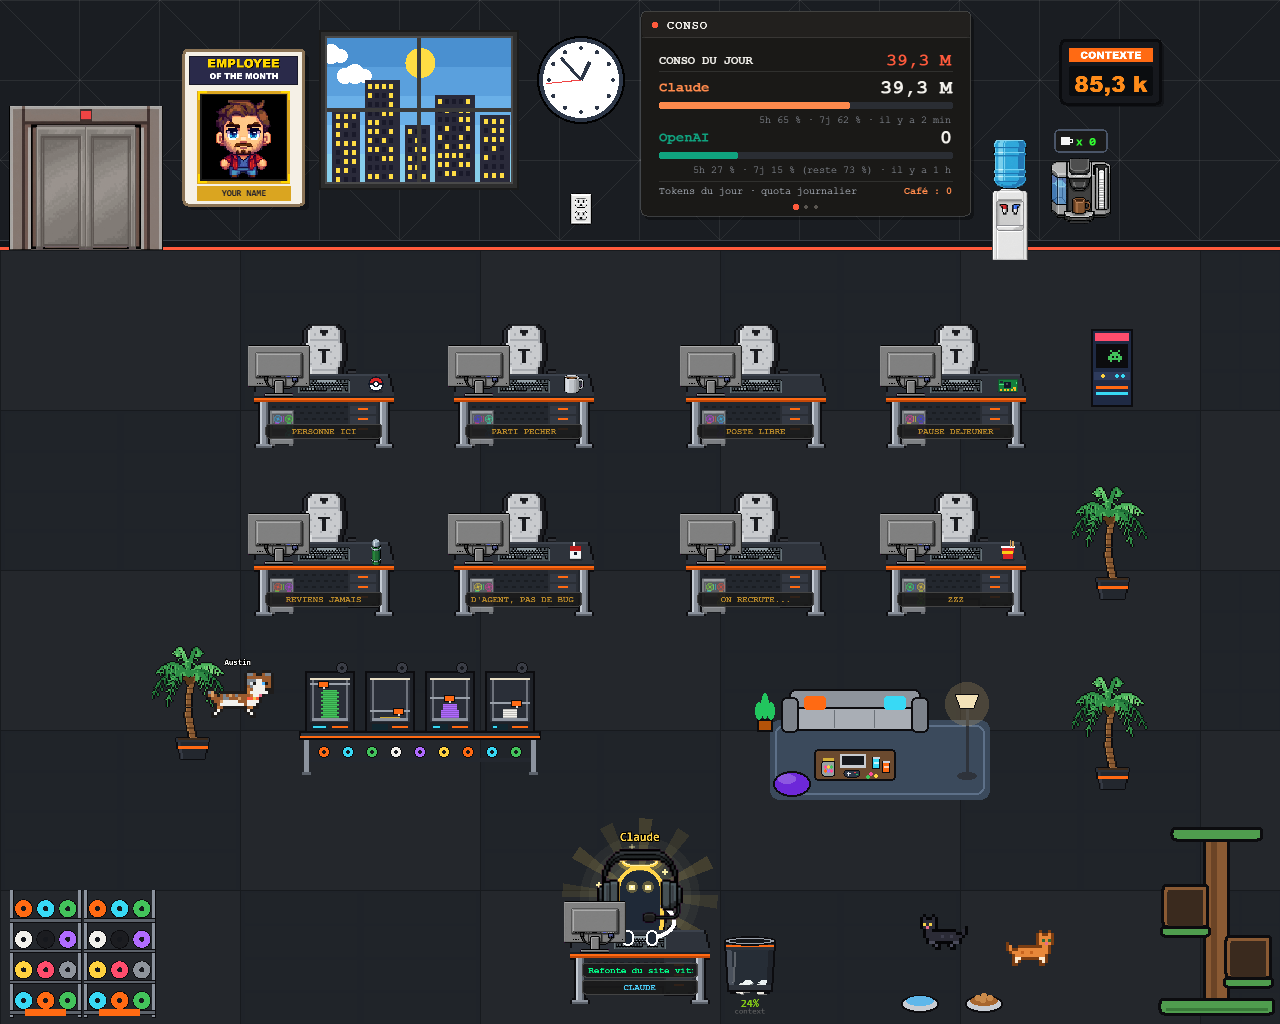
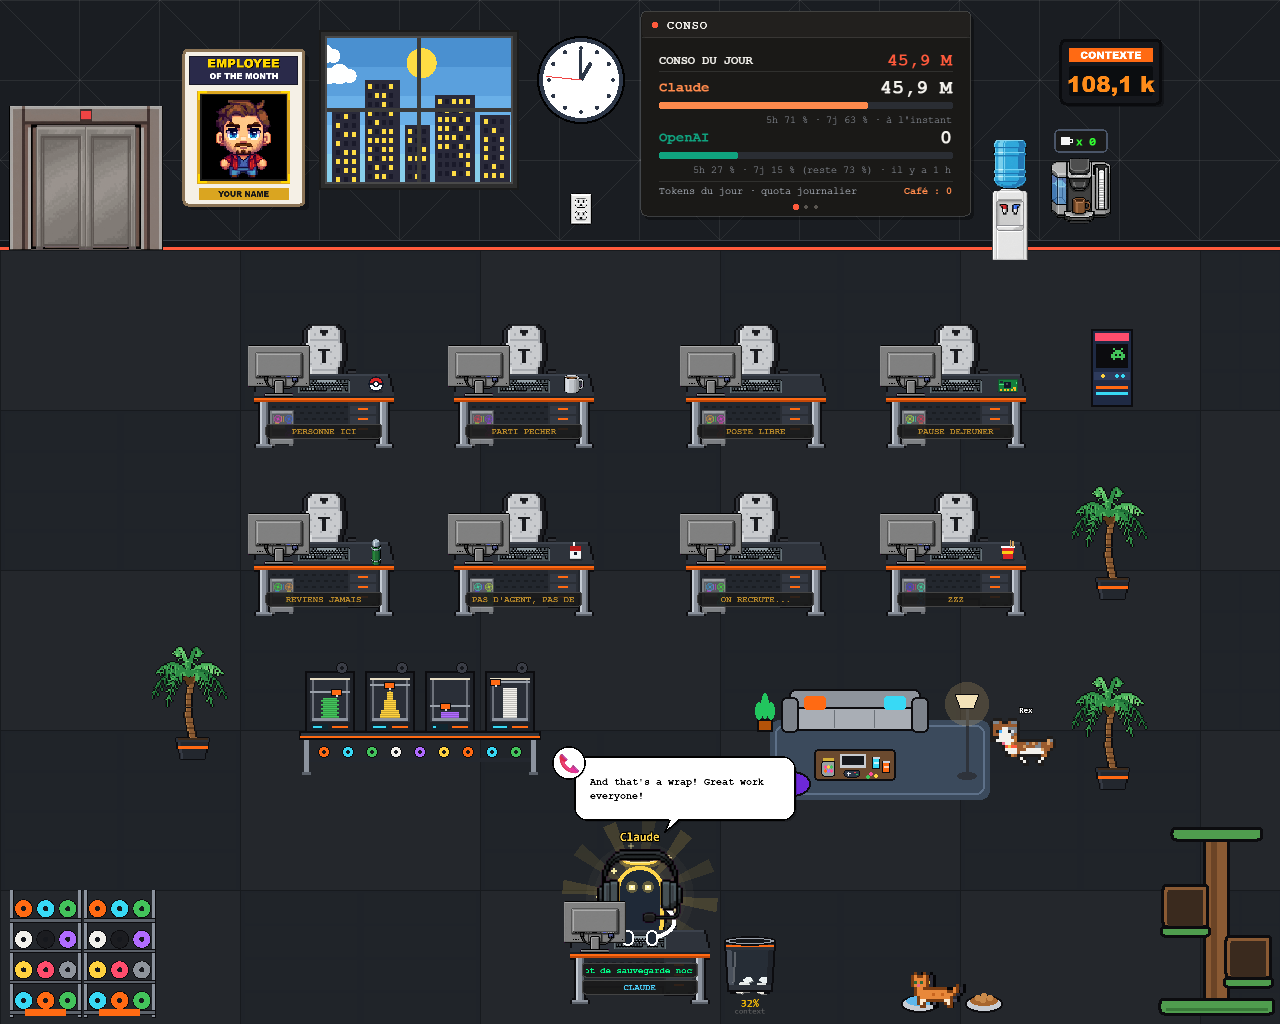
Anonymise les prenoms (agents, chien, chats), nouvelles captures, documentation complete
README enrichi, docs/ (architecture, personnaliser, depannage), CLAUDE.md et AGENTS.md.

diff --git a/app/frontend/tests/agentLooks.test.ts b/app/frontend/tests/agentLooks.test.ts
@@ -3,19 +3,19 @@ import { AGENT_LOOKS, PIXEL_LOOKS, getAgentLook } from "@/constants/agentLooks";
 
 describe("getAgentLook", () => {
   it("returns the fixed colour for a known name", () => {
-    expect(getAgentLook("Florian", "#000000").color).toBe("#F5C518");
+    expect(getAgentLook("Louis", "#000000").color).toBe("#F5C518");
   });
   it("ignores case and accents", () => {
-    expect(getAgentLook("Noémie", "#000").color).toBe(AGENT_LOOKS.noemie.color);
-    expect(getAgentLook("NOEMIE", "#000").color).toBe(AGENT_LOOKS.noemie.color);
+    expect(getAgentLook("Emma", "#000").color).toBe(AGENT_LOOKS.emma.color);
+    expect(getAgentLook("EMMA", "#000").color).toBe(AGENT_LOOKS.emma.color);
   });
   it("keeps the base hue for numbered duplicates but shades it", () => {
-    const base = getAgentLook("Yanis", "#000").color;
-    const dup = getAgentLook("Yanis 2", "#000").color;
+    const base = getAgentLook("Ivan", "#000").color;
+    const dup = getAgentLook("Ivan 2", "#000").color;
     expect(dup).not.toBe(base);
     expect(dup).toMatch(/^#[0-9A-F]{6}$/);
-    expect(getAgentLook("Yanis 2", "#000").accessory).toBe(
-      getAgentLook("Yanis", "#000").accessory,
+    expect(getAgentLook("Ivan 2", "#000").accessory).toBe(
+      getAgentLook("Ivan", "#000").accessory,
     );
   });
   it("falls back for unknown or missing names", () => {
@@ -33,16 +33,16 @@ describe("getAgentLook", () => {
     }
   });
   it("resolves the pixel look and darkens the body of duplicates", () => {
-    const base = getAgentLook("Florian", "#000");
-    const dup = getAgentLook("Florian 2", "#000");
+    const base = getAgentLook("Louis", "#000");
+    const dup = getAgentLook("Louis 2", "#000");
     expect(dup.pixel).not.toBeNull();
     expect(dup.pixel?.rects).toEqual(base.pixel?.rects);
     expect(dup.color).not.toBe(base.color);
     expect(dup.pixel?.body).toBe(dup.color);
   });
-  it("resolves Noemie with or without accent", () => {
-    expect(getAgentLook("Noémie", "#000").pixel).toBe(PIXEL_LOOKS.noemie);
-    expect(getAgentLook("noemie", "#000").pixel).toBe(PIXEL_LOOKS.noemie);
+  it("resolves Emma with or without accent", () => {
+    expect(getAgentLook("Emma", "#000").pixel).toBe(PIXEL_LOOKS.emma);
+    expect(getAgentLook("emma", "#000").pixel).toBe(PIXEL_LOOKS.emma);
   });
   it("gives no pixel look to unknown names", () => {
     expect(getAgentLook("Bob", "#123456").pixel).toBeNull();

diff --git a/app/frontend/src/systems/workTracker.test.ts b/app/frontend/src/systems/workTracker.test.ts
@@ -15,7 +15,7 @@ const noon = new Date(2026, 9, 6, 12, 0, 0);
 const nextDay = new Date(2026, 9, 7, 9, 0, 0);
 
 const agents: TrackedAgent[] = [
-  { name: "yanis", state: "working" },
+  { name: "ivan", state: "working" },
   { name: "Lina", state: "thinking" },
   { name: "Omar", state: "waiting" },
   { name: null, state: "working" },
@@ -24,14 +24,14 @@ const agents: TrackedAgent[] = [
 describe("accumulate", () => {
   it("compte seulement ceux qui travaillent ou réfléchissent, avec un prénom", () => {
     const log = accumulate(emptyLog(noon), agents, 5, noon);
-    expect(log.seconds).toEqual({ Yanis: 5, Lina: 5 });
+    expect(log.seconds).toEqual({ Ivan: 5, Lina: 5 });
   });
 
   it("cumule d'un passage à l'autre", () => {
     let log = emptyLog(noon);
     log = accumulate(log, agents, 5, noon);
     log = accumulate(log, [agents[0]], 5, noon);
-    expect(log.seconds.Yanis).toBe(10);
+    expect(log.seconds.Ivan).toBe(10);
     expect(log.seconds.Lina).toBe(5);
   });
 
@@ -44,15 +44,15 @@ describe("accumulate", () => {
     const yesterday = accumulate(emptyLog(noon), agents, 60, noon);
     const log = accumulate(yesterday, [agents[0]], 5, nextDay);
     expect(log.date).toBe(localDateKey(nextDay));
-    expect(log.seconds).toEqual({ Yanis: 5 });
+    expect(log.seconds).toEqual({ Ivan: 5 });
   });
 });
 
 describe("topWorker / ranking", () => {
   it("désigne le prénom qui a le plus bossé", () => {
-    const log = { date: "x", seconds: { Lina: 300, Yanis: 900, Omar: 10 } };
-    expect(topWorker(log)).toEqual({ name: "Yanis", seconds: 900 });
-    expect(ranking(log).map((r) => r.name)).toEqual(["Yanis", "Lina", "Omar"]);
+    const log = { date: "x", seconds: { Lina: 300, Ivan: 900, Omar: 10 } };
+    expect(topWorker(log)).toEqual({ name: "Ivan", seconds: 900 });
+    expect(ranking(log).map((r) => r.name)).toEqual(["Ivan", "Lina", "Omar"]);
   });
   it("renvoie null si personne n'a travaillé", () => {
     expect(topWorker(emptyLog(noon))).toBeNull();
@@ -66,7 +66,7 @@ describe("formatage et lecture", () => {
     expect(formatDuration(4020)).toBe("1 h 07");
   });
   it("firstName", () => {
-    expect(firstName("  yanis ")).toBe("Yanis");
+    expect(firstName("  ivan ")).toBe("Ivan");
     expect(firstName("")).toBeNull();
     expect(firstName(null)).toBeNull();
   });

diff --git a/app/frontend/src/systems/outingPlanner.test.ts b/app/frontend/src/systems/outingPlanner.test.ts
@@ -8,7 +8,7 @@ import {
   BREAK_CHANCE_PER_TICK,
   COFFEE_WAIT_MS,
   OUTING_COOLDOWN_MS,
-  YANIS_BREAK_FACTOR,
+  IVAN_BREAK_FACTOR,
   type PlannedAgent,
 } from "./outingPlanner";
 
@@ -18,7 +18,7 @@ const always = () => 0;
 function agent(over: Partial<PlannedAgent> = {}): PlannedAgent {
   return {
     id: "a1",
-    name: "Florian",
+    name: "Louis",
     phase: "idle",
     backendState: "waiting",
     ...over,
@@ -26,11 +26,11 @@ function agent(over: Partial<PlannedAgent> = {}): PlannedAgent {
 }
 
 describe("breakChance", () => {
-  it("Yanis sort plus souvent que les autres", () => {
-    expect(breakChance("Yanis")).toBe(
-      BREAK_CHANCE_PER_TICK * YANIS_BREAK_FACTOR,
+  it("Ivan sort plus souvent que les autres", () => {
+    expect(breakChance("Ivan")).toBe(
+      BREAK_CHANCE_PER_TICK * IVAN_BREAK_FACTOR,
     );
-    expect(breakChance("yanis ")).toBeGreaterThan(breakChance("Florian"));
+    expect(breakChance("ivan ")).toBeGreaterThan(breakChance("Louis"));
     expect(breakChance(null)).toBe(BREAK_CHANCE_PER_TICK);
   });
 });
@@ -83,14 +83,14 @@ describe("OutingPlanner - pause", () => {
     expect(plan.coffee).toEqual([]);
   });
 
-  it("Yanis passe le tirage là où un autre agent le rate", () => {
+  it("Ivan passe le tirage là où un autre agent le rate", () => {
     const roll = () => BREAK_CHANCE_PER_TICK * 2; // entre x1 et x3
     const p = new OutingPlanner();
     const plan = p.tick(
       0,
       [
-        agent({ id: "f", name: "Florian", backendState: "working" }),
-        agent({ id: "y", name: "Yanis", backendState: "working" }),
+        agent({ id: "f", name: "Louis", backendState: "working" }),
+        agent({ id: "y", name: "Ivan", backendState: "working" }),
       ],
       roll,
     );

diff --git a/app/frontend/src/constants/agentLooks.ts b/app/frontend/src/constants/agentLooks.ts
@@ -2,14 +2,14 @@
  * Fixed look per agent first name.
  *
  * Themes (placeholder until real sprites exist):
- *  - Florian   : chill, "Pokemon" vibe     -> warm electric yellow
- *  - Alexandre : robotics engineer/cyborg  -> metallic cyan steel
- *  - Martial   : old wise master           -> sage olive green
- *  - Guilherm  : vivid electron            -> neon electric blue
- *  - Noemie    : classy and clean          -> cream white
- *  - Orlane    : designer                  -> creative magenta
- *  - Yanis     : Russian style             -> deep red
- *  - Germain   : looks like a PCB          -> circuit-board green
+ *  - Louis   : chill, "Pokemon" vibe     -> warm electric yellow
+ *  - Leo : robotics engineer/cyborg  -> metallic cyan steel
+ *  - Victor   : old wise master           -> sage olive green
+ *  - Theo  : vivid electron            -> neon electric blue
+ *  - Emma    : classy and clean          -> cream white
+ *  - Clara    : designer                  -> creative magenta
+ *  - Ivan     : Russian style             -> deep red
+ *  - Hugo   : looks like a PCB          -> circuit-board green
  *
  * Source of truth: agentPixelLooks.json (body colour + pixel rects, drawn in
  * AgentSprite). `accessory` is kept as derived data.
@@ -75,7 +75,7 @@ function shade(hex: string, delta: number): string {
 }
 
 /**
- * Resolve the look for an agent name ("Florian", "Florian 2", "Noémie 3").
+ * Resolve the look for an agent name ("Louis", "Louis 2", "Emma 3").
  * Unknown / empty names keep `fallbackColor`. Duplicates (suffix >= 2) get a
  * slightly darker shade of the base colour.
  */

diff --git a/app/frontend/src/systems/outingPlanner.ts b/app/frontend/src/systems/outingPlanner.ts
@@ -4,7 +4,7 @@
  * - Café : un agent qui attend plus de 5 min va boire un café. En principe
  *   cela n'arrive jamais (un agent n'attend jamais plus de 5 min) : chaque
  *   café est donc une alerte, et le compteur sert de surveillance.
- * - Pause : sortie aléatoire vers le coin détente. Yanis sort plus souvent.
+ * - Pause : sortie aléatoire vers le coin détente. Ivan sort plus souvent.
  */
 
 import { pickNear, type DogGrid, type Rng } from "./dogBehavior";
@@ -20,8 +20,8 @@ export const COFFEE_WAIT_MS = 5 * 60 * 1000;
 export const PLANNER_TICK_MS = 5000;
 /** Probabilité de pause par vérification (~1 pause / 20 min en moyenne). */
 export const BREAK_CHANCE_PER_TICK = 0.004;
-/** Yanis sort ~3 fois plus souvent que les autres. */
-export const YANIS_BREAK_FACTOR = 3;
+/** Ivan sort ~3 fois plus souvent que les autres. */
+export const IVAN_BREAK_FACTOR = 3;
 /** Délai minimal entre deux sorties d'un même agent. */
 export const OUTING_COOLDOWN_MS = 2 * 60 * 1000;
 
@@ -39,8 +39,8 @@ const LOUNGE_ANCHOR: Position = {
 };
 
 export function breakChance(name: string | null): number {
-  const isYanis = (name ?? "").trim().toLowerCase() === "yanis";
-  return BREAK_CHANCE_PER_TICK * (isYanis ? YANIS_BREAK_FACTOR : 1);
+  const isIvan = (name ?? "").trim().toLowerCase() === "ivan";
+  return BREAK_CHANCE_PER_TICK * (isIvan ? IVAN_BREAK_FACTOR : 1);
 }
 
 /** Case libre où l'agent va se poster, ou null si rien de libre. */

diff --git a/app/frontend/src/utils/eventPhrases.test.ts b/app/frontend/src/utils/eventPhrases.test.ts
@@ -1,8 +1,8 @@
 import { describe, expect, it } from "vitest";
 import { buildEventPhrase, describeTool } from "./eventPhrases";
 
-const florian = {
-  name: "Florian",
+const louis = {
+  name: "Louis",
   model: "claude-haiku-4-5-20251001",
   color: "#f00",
 };
@@ -46,9 +46,9 @@ describe("buildEventPhrase", () => {
   it("names agents with model and color", () => {
     const p = buildEventPhrase(
       { type: "pre_tool_use", agentId: "a1", detail: { toolName: "Bash" } },
-      florian,
+      louis,
     );
-    expect(p.actor).toBe("Florian");
+    expect(p.actor).toBe("Louis");
     expect(p.actorModel).toBe("Haiku 4.5");
     expect(p.actorColor).toBe("#f00");
     expect(p.text).toBe("lance une commande");
@@ -82,9 +82,9 @@ describe("buildEventPhrase", () => {
   it("builds lifecycle phrases", () => {
     const start = buildEventPhrase(
       { type: "subagent_start", agentId: "a1" },
-      florian,
+      louis,
     );
-    expect(`${start.actor} ${start.text}`).toBe("Boss embauche Florian");
+    expect(`${start.actor} ${start.text}`).toBe("Boss embauche Louis");
     expect(
       buildEventPhrase({ type: "user_prompt_submit", agentId: "main" }).text,
     ).toBe("Nouvelle demande");

diff --git a/app/frontend/src/components/game/OfficeDog.tsx b/app/frontend/src/components/game/OfficeDog.tsx
@@ -1,5 +1,5 @@
 /**
- * OfficeDog - Austin, le chien du bureau. Un seul useTick, position en ref
+ * OfficeDog - Rex, le chien du bureau. Un seul useTick, position en ref
  * (pas de re-render React, pas de store global). Le zIndex du conteneur est
  * mis a jour a chaque tick (= y des pieds) pour le tri en profondeur.
  */
@@ -7,7 +7,7 @@
 import { extend, useTick } from "@pixi/react";
 import { Container, Graphics, Text } from "pixi.js";
 import { useMemo, useRef, type ReactNode } from "react";
-import dogData from "@/constants/austinDog.json";
+import dogData from "@/constants/rexDog.json";
 import { useGameStore } from "@/stores/gameStore";
 import {
   GRID_HEIGHT,

diff --git a/app/frontend/src/components/conversations/conversationsLogic.ts b/app/frontend/src/components/conversations/conversationsLogic.ts
@@ -99,8 +99,8 @@ export function needsLabel(needsReason?: string | null): string {
 }
 
 /**
- * Personnage du poste (Florian, Martial...) : un par poste, dans l'ordre des
- * looks existants ; au-delà, « Florian 2 » (même règle que l'ancien bureau).
+ * Personnage du poste (Louis, Victor...) : un par poste, dans l'ordre des
+ * looks existants ; au-delà, « Louis 2 » (même règle que l'ancien bureau).
  */
 export function agentNameForDesk(deskIndex: number): string {
   const keys = Object.keys(PIXEL_LOOKS);

diff --git a/app/frontend/src/components/game/OfficeGame.tsx b/app/frontend/src/components/game/OfficeGame.tsx
@@ -567,7 +567,7 @@ export function OfficeGame(): ReactNode {
 
                   {/* Y-sorted layer: chairs and agents sorted by Y position (higher Y = in front) */}
                   <pixiContainer sortableChildren={true}>
-                    {/* Austin the office dog - zIndex = feet Y (set in its tick) */}
+                    {/* Rex the office dog - zIndex = feet Y (set in its tick) */}
                     <OfficeDog />
 
                     {/* The two office cats (black and orange) */}

diff --git a/app/frontend/src/utils/eventPhrases.ts b/app/frontend/src/utils/eventPhrases.ts
@@ -26,7 +26,7 @@ export interface PhraseAgent {
 
 export interface EventPhrase {
   icon: string;
-  /** Who acts ("Boss", "Florian"); null when the event has no actor. */
+  /** Who acts ("Boss", "Louis"); null when the event has no actor. */
   actor: string | null;
   isBoss: boolean;
   /** Short model label shown next to the actor (agents only). */

diff --git a/app/frontend/src/systems/dogBehavior.ts b/app/frontend/src/systems/dogBehavior.ts
@@ -1,5 +1,5 @@
 /**
- * Comportement pur d'Austin, le chien du bureau.
+ * Comportement pur d'Rex, le chien du bureau.
  * Aucune dependance a React/Pixi : l'etat est mis a jour par `stepDog`.
  * Le chien n'est jamais ajoute a la grille comme obstacle dynamique.
  */

diff --git a/app/backend/tests/test_agent_names_model_shutdown.py b/app/backend/tests/test_agent_names_model_shutdown.py
@@ -17,7 +17,7 @@ from app.core.summary_service import SummaryService
 from app.core.transcript_poller import PolledAgent, TranscriptPoller
 from app.models.events import AgentEvent, AgentEventData, EventType
 
-NAMES = ["Florian", "Germain"]
+NAMES = ["Louis", "Hugo"]
 
 
 def _service(_unused: str = "") -> SummaryService:
@@ -38,20 +38,20 @@ class TestConfiguredAgentNames:
         assert len(Settings().AGENT_NAMES.split(",")) == 8
 
     def test_picks_from_list(self, names_setting: Settings) -> None:
-        names_setting.AGENT_NAMES = " Florian , Germain ,, "
+        names_setting.AGENT_NAMES = " Louis , Hugo ,, "
         svc = _service("")
         for _ in range(20):
             assert svc.generate_agent_name_fallback("write tests", None, "Explore") in NAMES
 
     def test_skips_taken_names(self, names_setting: Settings) -> None:
-        names_setting.AGENT_NAMES = "Florian,Germain"
+        names_setting.AGENT_NAMES = "Louis,Hugo"
         svc = _service("")
-        assert svc.generate_agent_name_fallback("x", {"Florian"}) == "Germain"
+        assert svc.generate_agent_name_fallback("x", {"Louis"}) == "Hugo"
 
     def test_dedupes_when_all_taken(self, names_setting: Settings) -> None:
-        names_setting.AGENT_NAMES = "Florian"
+        names_setting.AGENT_NAMES = "Louis"
         svc = _service("")
-        assert svc.generate_agent_name_fallback("x", {"Florian"}) == "Florian 2"
+        assert svc.generate_agent_name_fallback("x", {"Louis"}) == "Louis 2"
 
     def test_empty_list_keeps_original_behaviour(self, names_setting: Settings) -> None:
         names_setting.AGENT_NAMES = ""
@@ -61,7 +61,7 @@ class TestConfiguredAgentNames:
 
     @pytest.mark.asyncio
     async def test_ai_path_not_called_when_names_configured(self, names_setting: Settings) -> None:
-        names_setting.AGENT_NAMES = "Florian,Germain"
+        names_setting.AGENT_NAMES = "Louis,Hugo"
         svc = _service("")
         svc.enabled = True
         svc._call_with_retry = AsyncMock(return_value="Test Pilot")  # type: ignore[method-assign]
